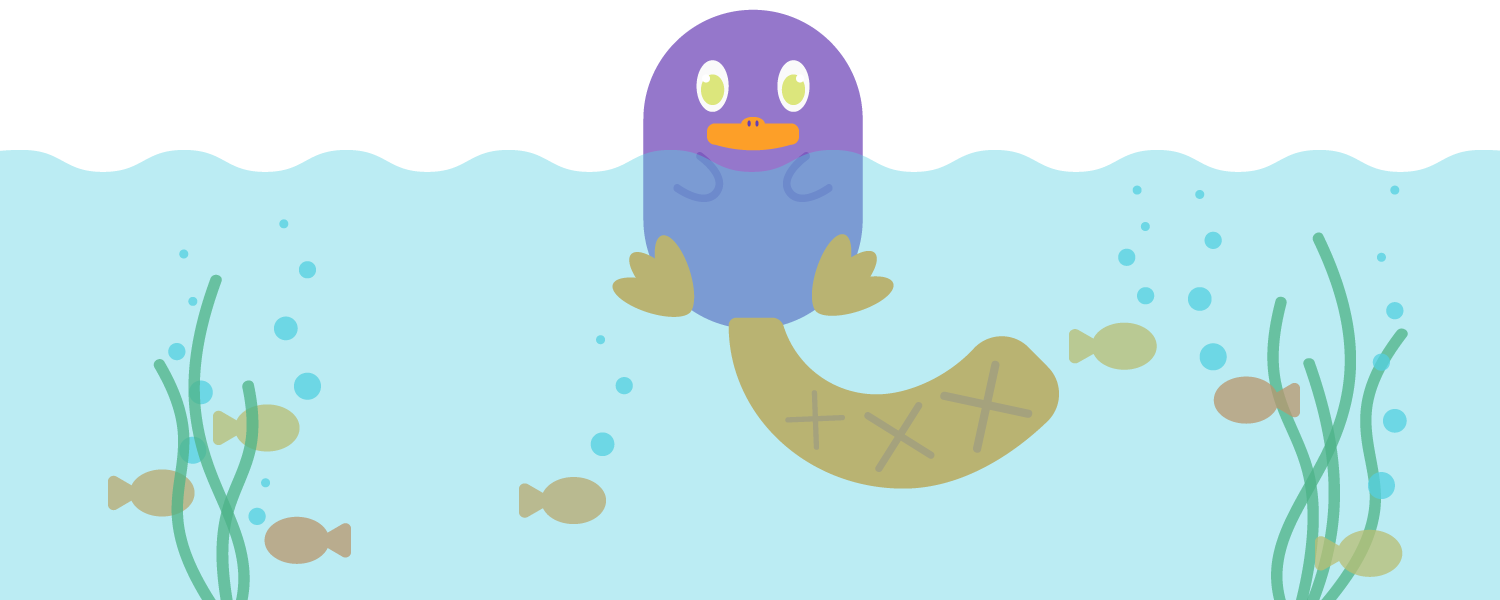
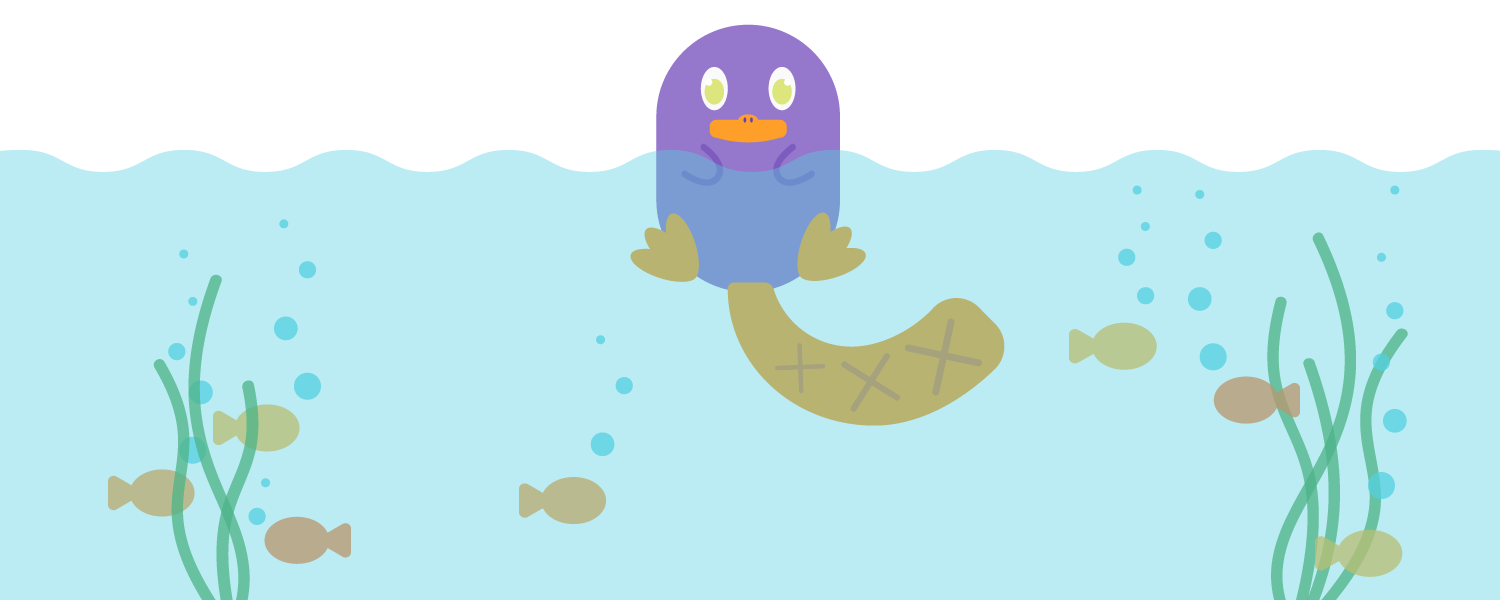
Updates

Changed region(s): [[0.3987, 0.0, 0.7053, 0.84]]

diff --git a/materialize-src/index.html b/materialize-src/index.html
@@ -20,28 +20,31 @@
         <ul class="right hide-on-med-and-down">
           <li><a href="dashboard.html">Dashboard</a></li>
           <li><a href="events.html">Events</a></li>
-          <li><a href="">Stories</a></li>
+          <li><a href="community.html">Stories</a></li>
           <li><a href="chat.html">Chat</a></li>
         </ul>
         <ul class="side-nav" id="mobile-demo">
           <li><a href="dashboard.html">Dashboard</a></li>
           <li><a href="events.html">Events</a></li>
-          <li><a href="">Stories</a></li>
+          <li><a href="community.html">Stories</a></li>
           <li><a href="chat.html">Chat</a></li>
         </ul>
       </div>
     </div>
   </nav>
 
-    <div class="col s8 offset-s2 lime lighten-2">
-      <br>
-      <p class="flow-text">Here is a welcome to the community.</p>
-      <br>
-      <div class="row">
-      <div class="col s4"></div>
-      <a class="waves-effect waves-light btn-large cyan darken-1" href="form.html">Create Account</a>
-      <a class="waves-effect waves-light btn-large cyan darken-1" style="width:16%" href="login.html">Sign In</a>
+  <div class="col s8 offset-s2 lime lighten-5">
+    <h1 class="flow-text">Welcome to the Helping Hand Project Community.</h1>
+    <img src="images/character3.png">
+    <div class="row">
+    <div class="col s4"></div>
+    <a class="waves-effect waves-light btn-large cyan darken-1" href="form.html">Create Account</a>
+    <a class="waves-effect waves-light btn-large cyan darken-1" style="width:16%" href="login.html">Sign In</a>
 </div>
+    <br>
+  </div>
+
+
       <br><br><br>
     </div>
 

diff --git a/materialize-src/events.html b/materialize-src/events.html
@@ -20,13 +20,14 @@
         <ul class="right hide-on-med-and-down">
           <li><a href="dashboard.html">Dashboard</a></li>
           <li><a href="events.html">Events</a></li>
-          <li><a href="">Stories</a></li>
+          <li><a href="community.html">Stories</a></li>
           <li><a href="chat.html">Chat</a></li>
         </ul>
         <ul class="side-nav" id="mobile-demo">
-          <li><a href="">Dashboard</a></li>
-          <li><a href="">Events</a></li>
-          <li><a href="">Stories</a></li>
+          <li><a href="dashboard.html">Dashboard</a></li>
+          <li><a href="events.html">Events</a></li>
+          <li><a href="community.html">Stories</a></li>
+          <li><a href="chat.html">Chat</a></li>
         </ul>
       </div>
     </div>

diff --git a/materialize-src/chat.html b/materialize-src/chat.html
@@ -20,13 +20,13 @@
         <ul class="right hide-on-med-and-down">
           <li><a href="dashboard.html">Dashboard</a></li>
           <li><a href="events.html">Events</a></li>
-          <li><a href="">Stories</a></li>
+          <li><a href="community.html">Stories</a></li>
           <li><a href="chat.html">Chat</a></li>
         </ul>
         <ul class="side-nav" id="mobile-demo">
           <li><a href="dashboard.html">Dashboard</a></li>
           <li><a href="events.html">Events</a></li>
-          <li><a href="">Stories</a></li>
+          <li><a href="community.html">Stories</a></li>
           <li><a href="chat.html">Chat</a></li>
         </ul>
       </div>

diff --git a/materialize-src/dashboard.html b/materialize-src/dashboard.html
@@ -20,13 +20,13 @@
         <ul class="right hide-on-med-and-down">
           <li><a href="dashboard.html">Dashboard</a></li>
           <li><a href="events.html">Events</a></li>
-          <li><a href="">Stories</a></li>
+          <li><a href="community.html">Stories</a></li>
           <li><a href="chat.html">Chat</a></li>
         </ul>
         <ul class="side-nav" id="mobile-demo">
           <li><a href="dashboard.html">Dashboard</a></li>
           <li><a href="events.html">Events</a></li>
-          <li><a href="">Stories</a></li>
+          <li><a href="community.html">Stories</a></li>
           <li><a href="chat.html">Chat</a></li>
         </ul>
       </div>

diff --git a/materialize-src/dashboard1.html b/materialize-src/dashboard1.html
@@ -20,13 +20,13 @@
         <ul class="right hide-on-med-and-down">
           <li><a href="dashboard.html">Dashboard</a></li>
           <li><a href="events.html">Events</a></li>
-          <li><a href="">Stories</a></li>
+          <li><a href="community.html">Stories</a></li>
           <li><a href="chat.html">Chat</a></li>
         </ul>
         <ul class="side-nav" id="mobile-demo">
           <li><a href="dashboard.html">Dashboard</a></li>
           <li><a href="events.html">Events</a></li>
-          <li><a href="">Stories</a></li>
+          <li><a href="community.html">Stories</a></li>
           <li><a href="chat.html">Chat</a></li>
         </ul>
       </div>

diff --git a/materialize-src/form.html b/materialize-src/form.html
@@ -20,13 +20,13 @@
         <ul class="right hide-on-med-and-down">
           <li><a href="dashboard.html">Dashboard</a></li>
           <li><a href="events.html">Events</a></li>
-          <li><a href="">Stories</a></li>
+          <li><a href="community.html">Stories</a></li>
           <li><a href="chat.html">Chat</a></li>
         </ul>
         <ul class="side-nav" id="mobile-demo">
           <li><a href="dashboard.html">Dashboard</a></li>
           <li><a href="events.html">Events</a></li>
-          <li><a href="">Stories</a></li>
+          <li><a href="community.html">Stories</a></li>
           <li><a href="chat.html">Chat</a></li>
         </ul>
       </div>

diff --git a/materialize-src/login.html b/materialize-src/login.html
@@ -20,13 +20,13 @@
         <ul class="right hide-on-med-and-down">
           <li><a href="dashboard.html">Dashboard</a></li>
           <li><a href="events.html">Events</a></li>
-          <li><a href="">Stories</a></li>
+          <li><a href="community.html">Stories</a></li>
           <li><a href="chat.html">Chat</a></li>
         </ul>
         <ul class="side-nav" id="mobile-demo">
           <li><a href="dashboard.html">Dashboard</a></li>
           <li><a href="events.html">Events</a></li>
-          <li><a href="">Stories</a></li>
+          <li><a href="community.html">Stories</a></li>
           <li><a href="chat.html">Chat</a></li>
         </ul>
       </div>
